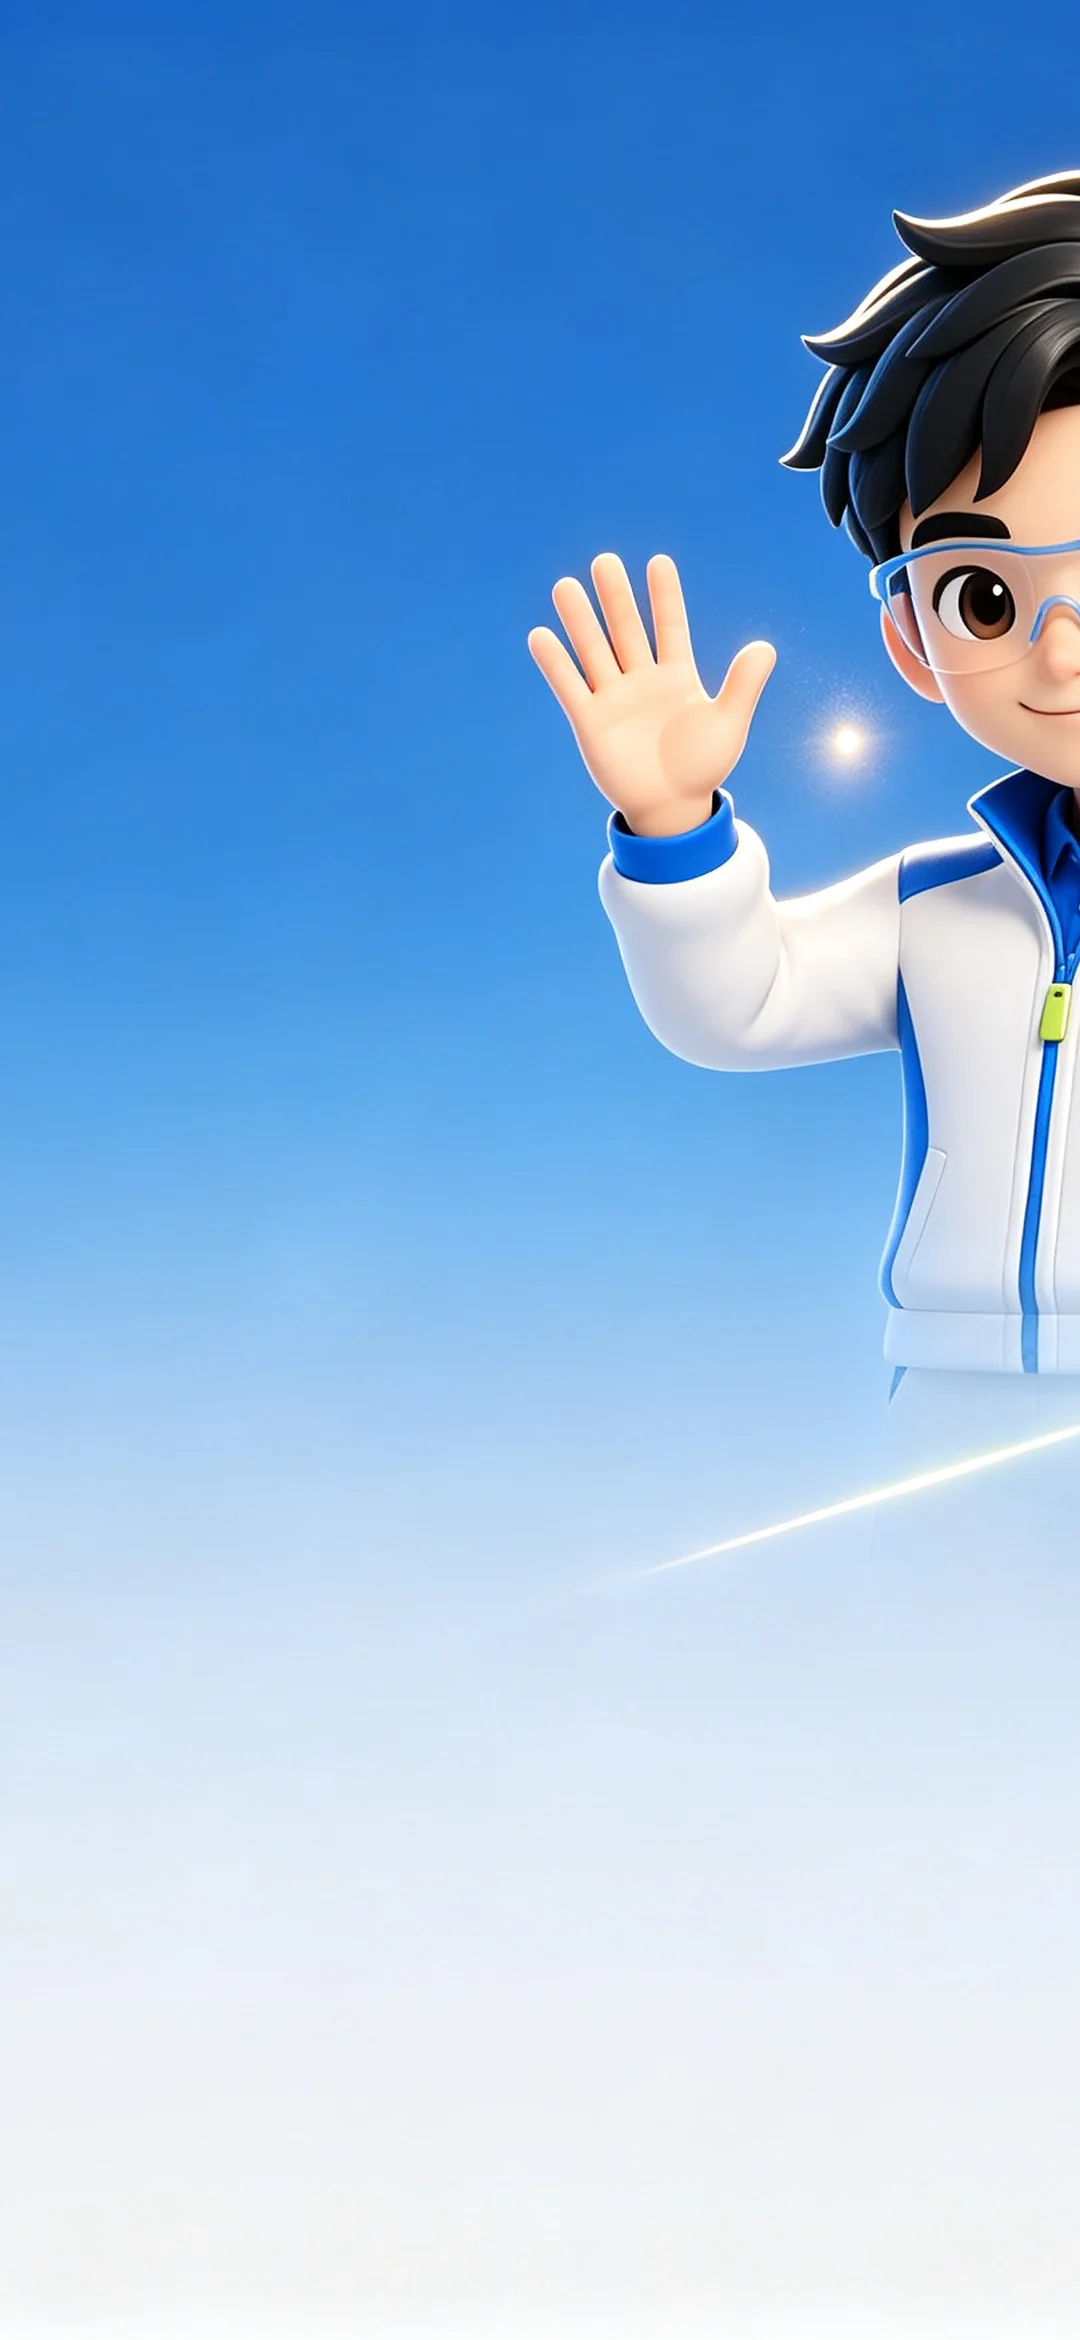
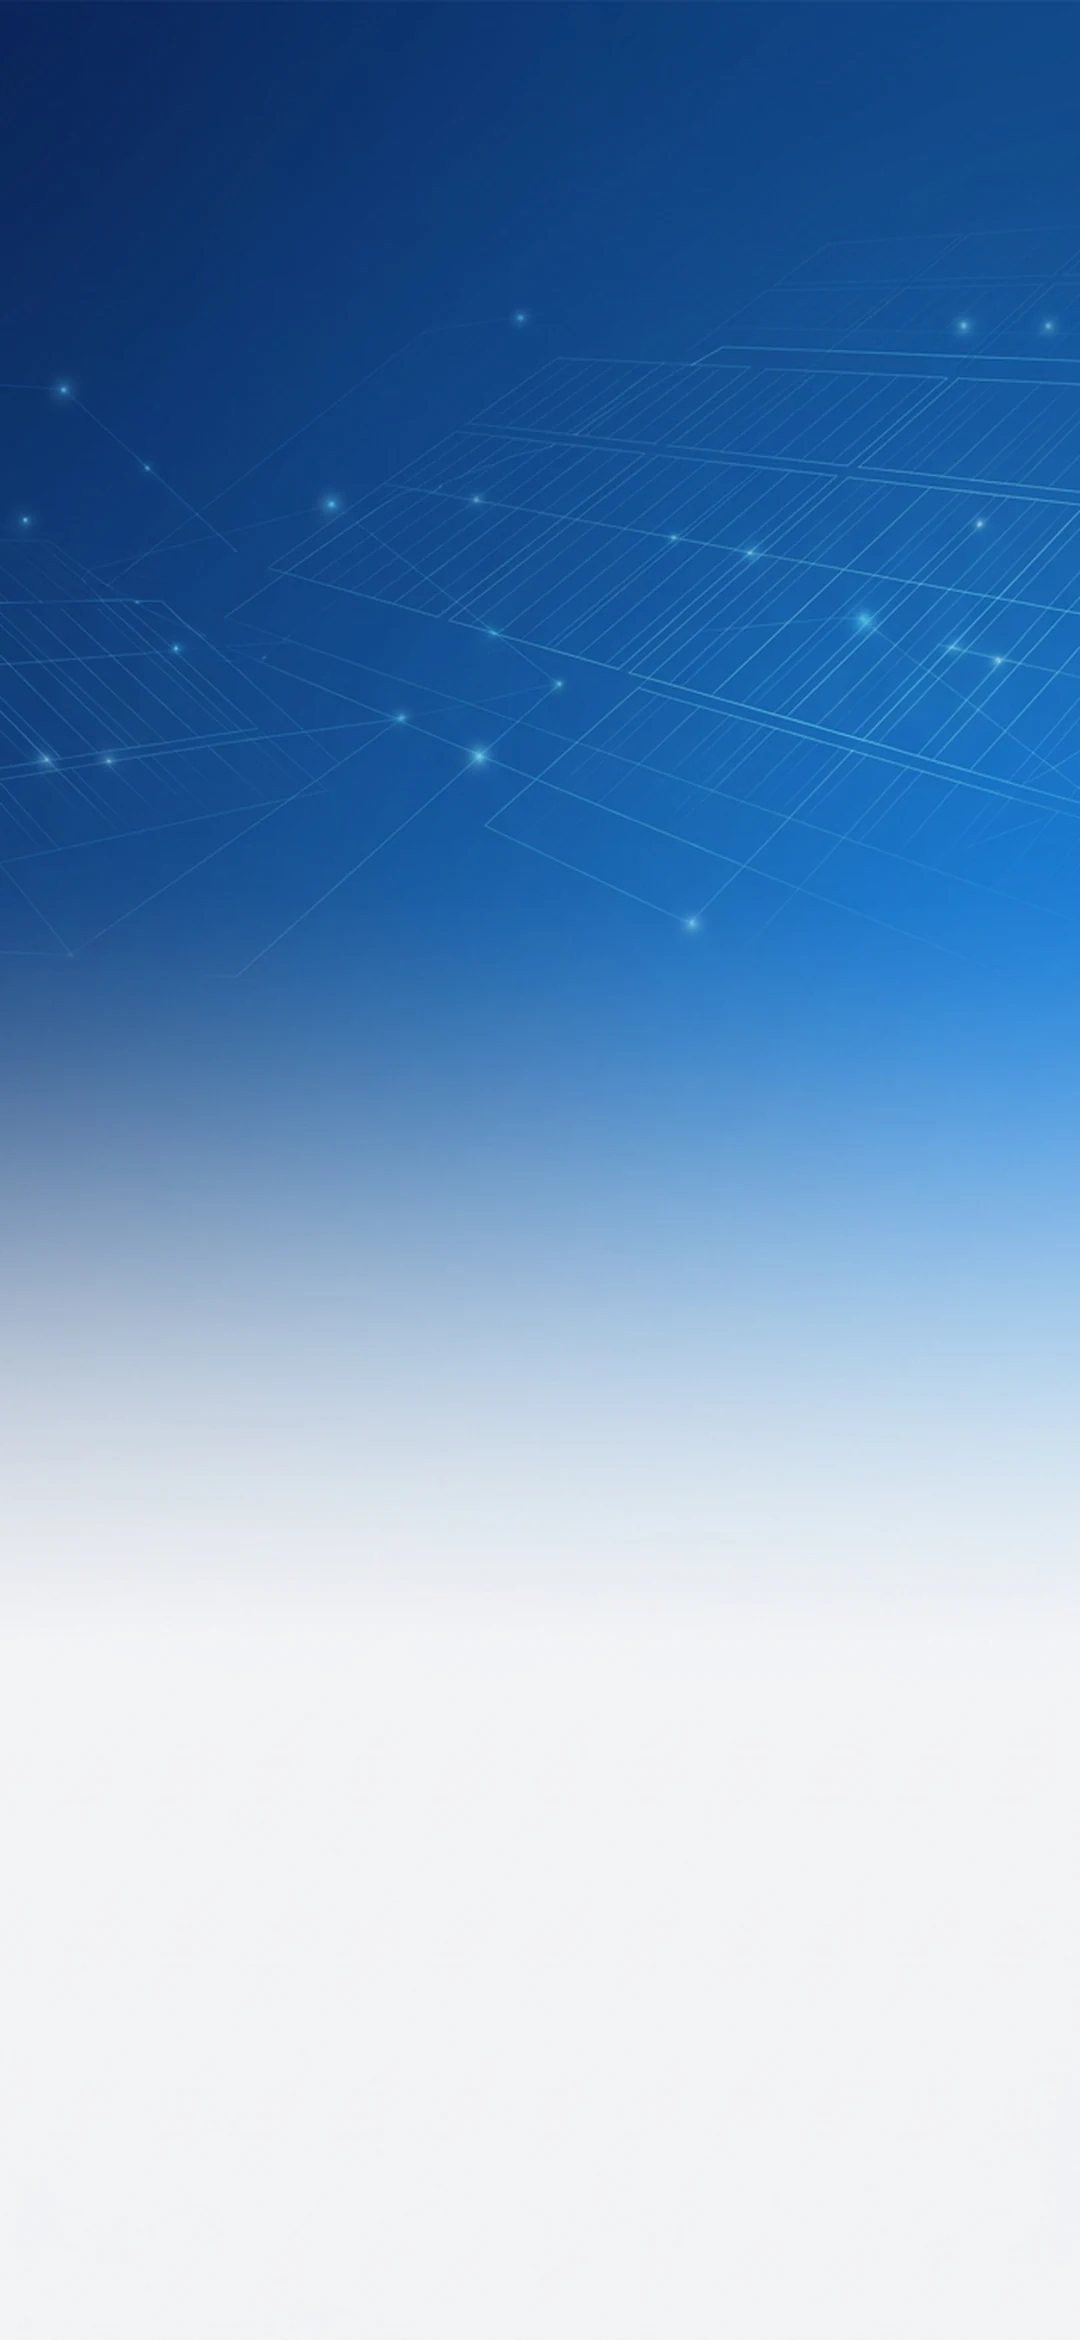
feat(app): 登录背景专业风改造并统一主题语义色

diff --git a/inv_app/lib/features/auth/presentation/pages/jverify_auth_page.dart b/inv_app/lib/features/auth/presentation/pages/jverify_auth_page.dart
@@ -85,7 +85,7 @@ class _JVerifyAuthPageState extends State<JVerifyAuthPage> {
       backgroundColor: AppColor.surfaceContainer(context),
       body: Stack(
         children: [
-          // 一键登录背景图（品牌蓝场景，铺满）
+          // 一键登录背景图（品牌深蓝科技渐变，铺满；底部浅色区放操作内容）
           Positioned.fill(
             child: IgnorePointer(
               child: Image.asset(
@@ -123,8 +123,8 @@ class _JVerifyAuthPageState extends State<JVerifyAuthPage> {
     );
   }
 
-  /// 拉起授权页前的过渡态：loading + 提示（背景图内已含吉祥物，不再叠加图形）
-  /// 内容置于底部，避开图内吉祥物所在的中部区域
+  /// 拉起授权页前的过渡态：loading + 提示
+  /// 内容置于底部浅色区，避开深色渐变区
   Widget _buildLaunching() {
     final l10n = _l10n;
     return Align(
@@ -154,7 +154,7 @@ class _JVerifyAuthPageState extends State<JVerifyAuthPage> {
   }
 
   /// 取消/失败后的极简兜底视图：可重试或使用其他方式登录
-  /// 内容置于底部，避开背景图内的吉祥物（不叠加图形）
+  /// 内容置于底部浅色区，保证文字/按钮对比度
   Widget _buildFailed(AuthState state) {
     final l10n = _l10n;
     return Align(

diff --git a/inv_app/lib/features/device/presentation/pages/device_qr_bind_page.dart b/inv_app/lib/features/device/presentation/pages/device_qr_bind_page.dart
@@ -6,6 +6,7 @@ import 'package:inv_app/core/services/ble/ble_adapter.dart';
 import 'package:inv_app/core/services/ble/ble_binding_service.dart';
 import 'package:inv_app/core/services/ble/ble_device_manager.dart';
 import 'package:inv_app/core/services/service_locator.dart';
+import 'package:inv_app/core/theme/app_theme.dart';
 import 'package:inv_app/features/device/presentation/bloc/device_bloc.dart';
 import 'package:inv_app/l10n/app_localizations.dart';
 
@@ -458,13 +459,13 @@ class _DeviceQrBindPageState extends State<DeviceQrBindPage> {
       case BindOutcome.bound:
         return (
           Icons.check_circle,
-          Colors.green,
+          AppColors.successLight,
           l10n.str('ble_binding_success'),
         );
       case BindOutcome.alreadyBound:
         return (
           Icons.info,
-          Colors.orange,
+          AppColors.warning,
           l10n.str('ble_binding_already_bound'),
         );
       case BindOutcome.invalidPin:
@@ -474,7 +475,7 @@ class _DeviceQrBindPageState extends State<DeviceQrBindPage> {
       case BindOutcome.needLoginForSync:
         return (
           Icons.cloud_sync,
-          Colors.orange,
+          AppColors.warning,
           l10n.str('ble_binding_need_login'),
         );
       case BindOutcome.failed:

diff --git a/inv_app/lib/features/device/presentation/pages/device_op_logs_page.dart b/inv_app/lib/features/device/presentation/pages/device_op_logs_page.dart
@@ -3,6 +3,7 @@ import 'package:flutter/material.dart';
 import 'package:inv_app/core/services/offline/offline_log_sync_service.dart';
 import 'package:inv_app/core/services/offline/offline_op_log_store.dart';
 import 'package:inv_app/core/services/service_locator.dart';
+import 'package:inv_app/core/theme/app_theme.dart';
 import 'package:inv_app/l10n/app_localizations.dart';
 
 /// 设备本地操作日志页（BLE 直连模式，设计文档 §3.5）
@@ -149,10 +150,10 @@ class _StatusChip extends StatelessWidget {
   Widget build(BuildContext context) {
     final l10n = AppLocalizations.of(context)!;
     final (color, label) = switch (status) {
-      'synced' => (Colors.green, l10n.opLogSyncStatus('synced')),
-      'syncing' => (Colors.blue, l10n.opLogSyncStatus('syncing')),
-      'failed' => (Colors.red, l10n.opLogSyncStatus('failed')),
-      _ => (Colors.orange, l10n.opLogSyncStatus('pending')),
+      'synced' => (AppColors.successLight, l10n.opLogSyncStatus('synced')),
+      'syncing' => (AppColors.primary, l10n.opLogSyncStatus('syncing')),
+      'failed' => (AppColors.errorLight, l10n.opLogSyncStatus('failed')),
+      _ => (AppColors.warning, l10n.opLogSyncStatus('pending')),
     };
     return Chip(
       label: Text(

diff --git a/inv_app/lib/features/auth/presentation/pages/auth_page.dart b/inv_app/lib/features/auth/presentation/pages/auth_page.dart
@@ -14,8 +14,8 @@ import 'package:inv_app/l10n/app_localizations.dart';
 /// 登录/注册模式
 enum AuthMode { login, register }
 
-/// 登录注册页：整页品牌背景图（右上角吉祥物为图内元素）+ 毛玻璃表单卡片
-/// 背景图全屏铺满，表单卡片悬浮于中下部；登录/注册通过 AnimatedSwitcher 组件级切换
+/// 登录注册页：品牌深蓝渐变背景图 + 毛玻璃表单卡片
+/// 背景图全屏铺满（上部深色放品牌名，下部浅色放表单），表单卡片悬浮于中下部；登录/注册通过 AnimatedSwitcher 组件级切换
 class AuthPage extends StatefulWidget {
   final AuthMode initialMode;
 
@@ -61,7 +61,7 @@ class _AuthPageState extends State<AuthPage> {
         builder: (context, state) {
           return Stack(
             children: [
-              // 整页品牌背景图：右上角吉祥物/装饰均为图内元素，不叠加任何图形
+              // 整页品牌背景图：深蓝渐变 + 抽象光伏/能量元素，无图形叠加
               Positioned.fill(
                 child: IgnorePointer(
                   child: Image.asset(

diff --git a/inv_app/lib/core/theme/csergy_assets.dart b/inv_app/lib/core/theme/csergy_assets.dart
@@ -49,9 +49,11 @@ abstract final class CsergyAssets {
   static const String emptyRecord = '$illustrationDirectory/empty_record_720.webp';
 
   // ============ 页面背景（WebP，控制包体积） ============
+  /// 登录页背景：品牌深蓝渐变 + 抽象光伏/能量元素（上部深色放品牌区，下部浅色放表单）
   static const String bgAuth = 'assets/images/backgrounds/bg_auth_abstract.webp';
   static const String bgSplash = 'assets/images/backgrounds/bg_splash_xiaoshuo.webp';
-  static const String bgJverify = 'assets/images/backgrounds/bg_jverify_xiaoshuo.webp';
+  /// 一键登录页背景：深蓝科技网格 + 能量粒子（底部浅色区放操作按钮）
+  static const String bgJverify = 'assets/images/backgrounds/bg_jverify_abstract.webp';
 
   // ============ 产品图 ============
   static const String productDirectory = 'assets/products';
